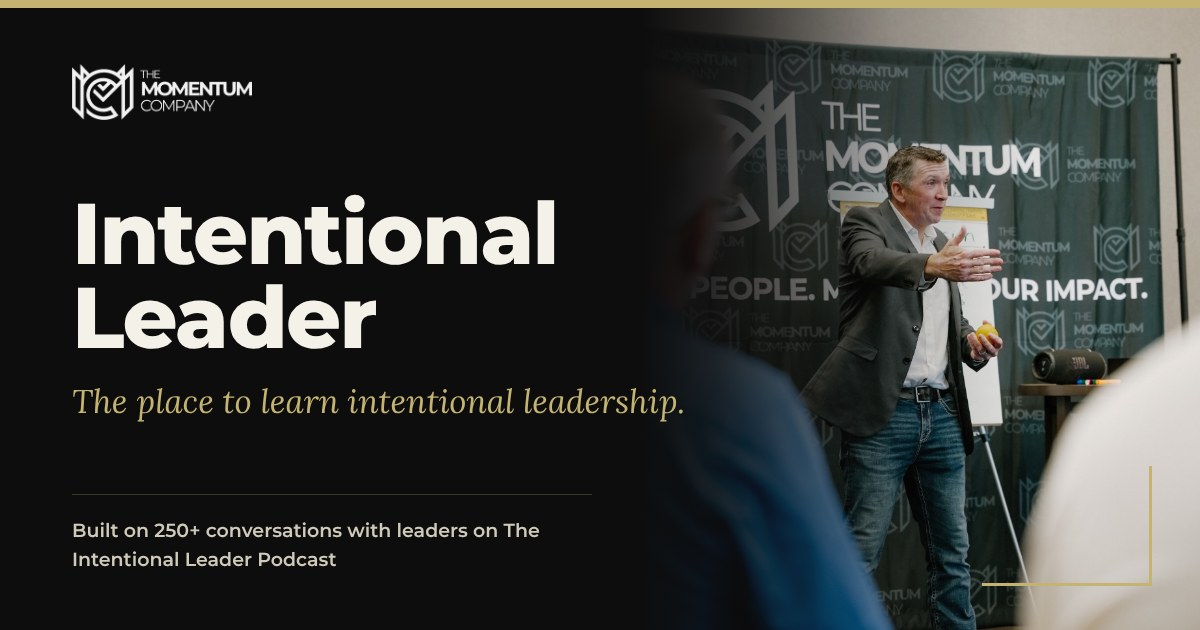
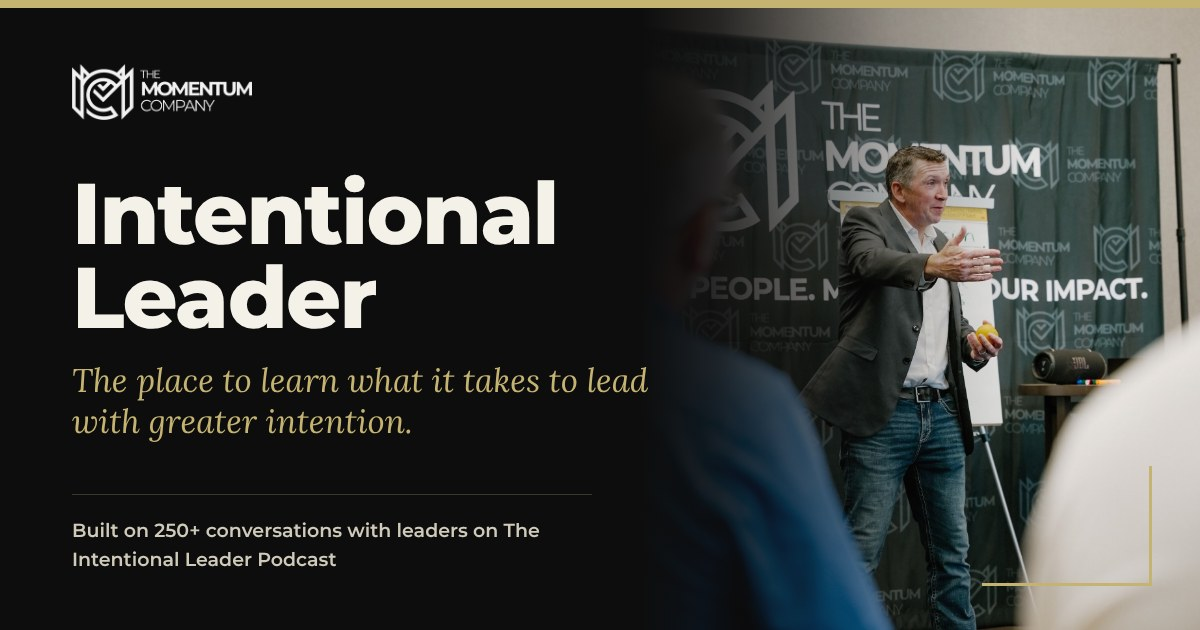
Intentional Leader: new tagline 'what it takes to lead with greater intention'
Claude-Session: https://claude.ai/code/session_018eN8ZtrTmXKP5gwNrARhC6

Changed region(s): [[0.0617, 0.2714, 0.5858, 0.6937]]

diff --git a/src/routes/intentional-leader.tsx b/src/routes/intentional-leader.tsx
@@ -7,7 +7,7 @@ import { usePageAnalytics, trackEvent } from "@/hooks/use-analytics";
 
 const TITLE = "Intentional Leader | The Momentum Company";
 const DESCRIPTION =
-  "The place to learn intentional leadership. Built on 250+ episodes of The Intentional Leader Podcast. Up to 8 leaders per company. Next class starts January 7, 2027.";
+  "The place to learn what it takes to lead with greater intention. Built on 250+ episodes of The Intentional Leader Podcast. Up to 8 leaders per company. Next class starts January 7, 2027.";
 const BOOKING_URL = "https://api.leadconnectorhq.com/widget/booking/UbCJCIeu4SNTUChma1tF";
 
 export const Route = createFileRoute("/intentional-leader")({
@@ -23,7 +23,7 @@ export const Route = createFileRoute("/intentional-leader")({
       { property: "og:image", content: `https://leadintentional.tools${ogShareImage}` },
       { property: "og:image:width", content: "1200" },
       { property: "og:image:height", content: "630" },
-      { property: "og:image:alt", content: "Intentional Leader, from The Momentum Company. The place to learn intentional leadership." },
+      { property: "og:image:alt", content: "Intentional Leader, from The Momentum Company. The place to learn what it takes to lead with greater intention." },
       { name: "twitter:card", content: "summary_large_image" },
       { name: "twitter:title", content: "Intentional Leader" },
       { name: "twitter:description", content: DESCRIPTION },

diff --git a/src/content/intentional-leader.html b/src/content/intentional-leader.html
@@ -230,7 +230,7 @@
     <div class="ilp-wrap ilp-origin-grid">
       <div>
         <p class="ilp-kicker">Where this comes from</p>
-        <h2>The place to learn intentional leadership.</h2>
+        <h2>The place to learn what it takes to lead with greater intention.</h2>
       </div>
       <div>
         <p>For the better part of twenty years I've been chasing one question... what makes a leader intentional, and what happens to the people around them when they are? I've asked it in more than 250 interviews on The Intentional Leader Podcast, in 400+ live events, and in a lot of quiet one-on-ones with leaders at every level, and I've watched closely for what actually works and what doesn't. Intentional Leader is all of that, turned into 90 days you can put to work.</p>
